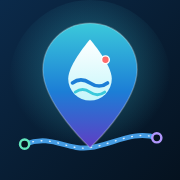
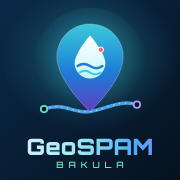
Ikon homescreen dengan tulisan GeoSPAM BAKULA
Claude-Session: https://claude.ai/code/session_01WqnN3B2kz7EzJKXViYCMaL

diff --git a/sw.js b/sw.js
@@ -1,5 +1,5 @@
 // Service worker GeoSPAM Bakula: jaringan dulu, cadangan cache untuk halaman & data statis
-const C = "geospam-v2";
+const C = "geospam-v3";
 self.addEventListener("install", e => self.skipWaiting());
 self.addEventListener("activate", e => e.waitUntil(self.clients.claim()));
 self.addEventListener("fetch", e => {
